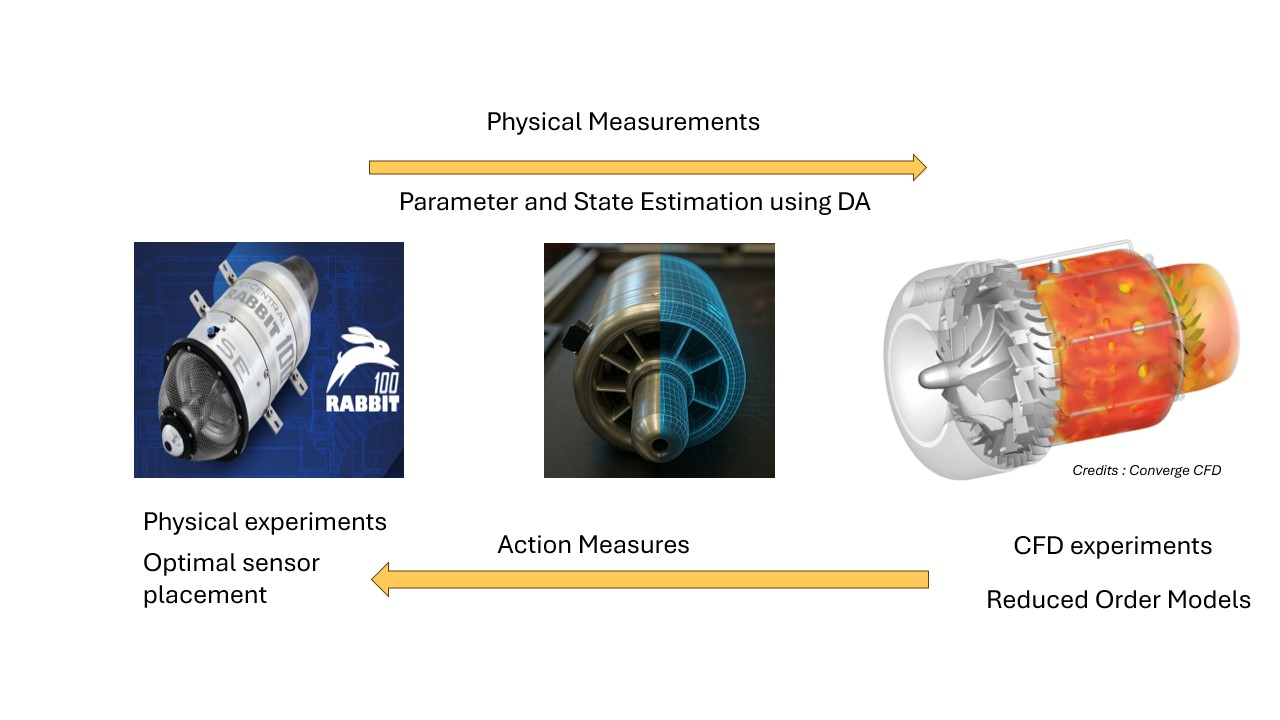
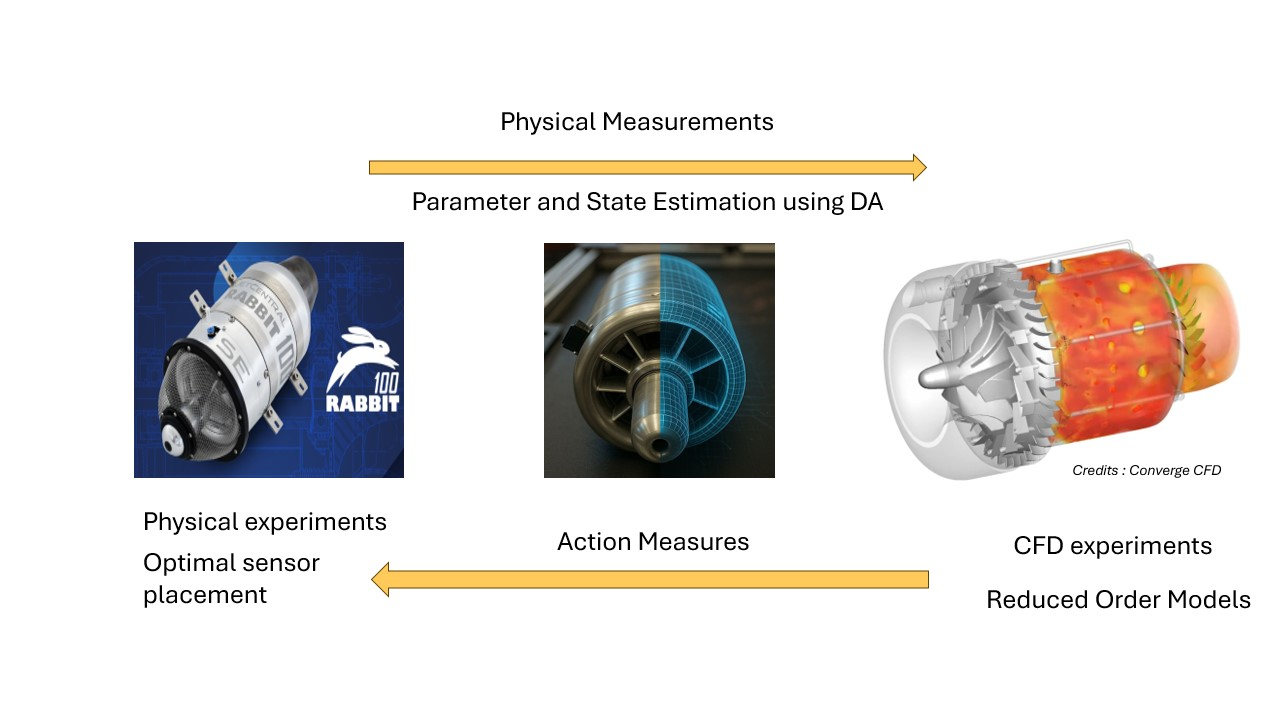
Made some changes in the big picture idea for the homepage

Changed region(s): [[0.3125, 0.2444, 0.6875, 0.3056], [0.375, 0.1528, 0.625, 0.1833], [0.375, 0.7333, 0.5938, 0.7639]]

diff --git a/_pages/about.md b/_pages/about.md
@@ -55,11 +55,15 @@ and significantly advances the development of DTs for jet engines.
 The research [team](/MATH-DT/people/) at VT brings together expertise from the field of Mathematics, Aerospace, Mechanical engineering and Computer Science to answer the several open questions. 
 
 The big picture idea is illustrated in the figure above and listed below:
-* Create a Full Order Model (FOM) of the fluid flow in the jet engine using Unsteady Reynolds-Averaged Navier-Stokes (**URANS**) model
-* Create a data driven (non-instrusive) Reduced Order Model (**ROM**) for the full order model
+* Develop high-fidelity multi-physics CFD and combustion jet engine models, with quantified uncertainties
+* The high-fidelity Full Order Model (FOM) of the fluid flow in the jet engine will be done using Unsteady Reynolds-Averaged Navier-Stokes (**URANS**) model
+* Develop novel scalable Reduced-Order Models (**ROMs**) for fast, low fidelity simulations of jet engines
+* Develop particle-surface interaction models to quantify the effects of erosion and deposition on engine performance. 
+* Develop an array of novel hierarchical Data Assimilation (DA) algorithms using variational approaches, ensemble Kalman filters, and transport map particle filters, all in the context of a hierarchy of models
 * Setup experiments to run the actual engine (we refer to this as the **Pysical Twin**) and start getting measurements from sensor that we place inside the engine
-* Identify areas of interest that can be observed (i.e. placement of sensors) for maximum information retrival
-* Inject particles and measure the erosion and accretion data
+* Use innovative experimental systems to observe the location and motion of flow features, for
+the JetRabbit engine using measurements made at the Virginia Tech Advanced Propulsion
+and Power Laboratory.
 * Calibrate the FOM and the ROM with the noisy measurements using Data Assimilation (**DA**) and Inversion
 * Use the calibrated model to do a future forecast/predictions of Quantities of Interests (**QoIs**)
 
